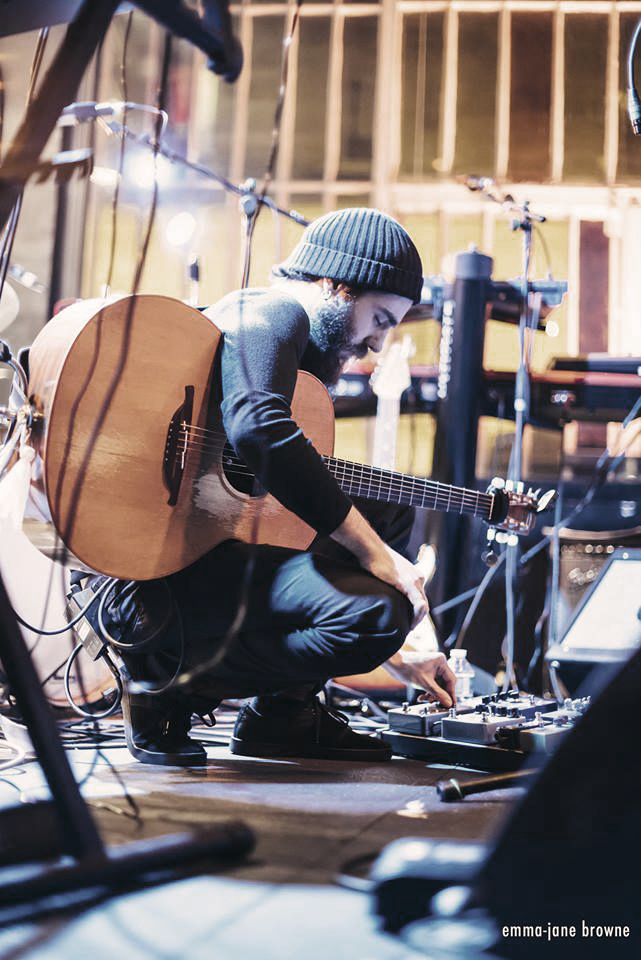
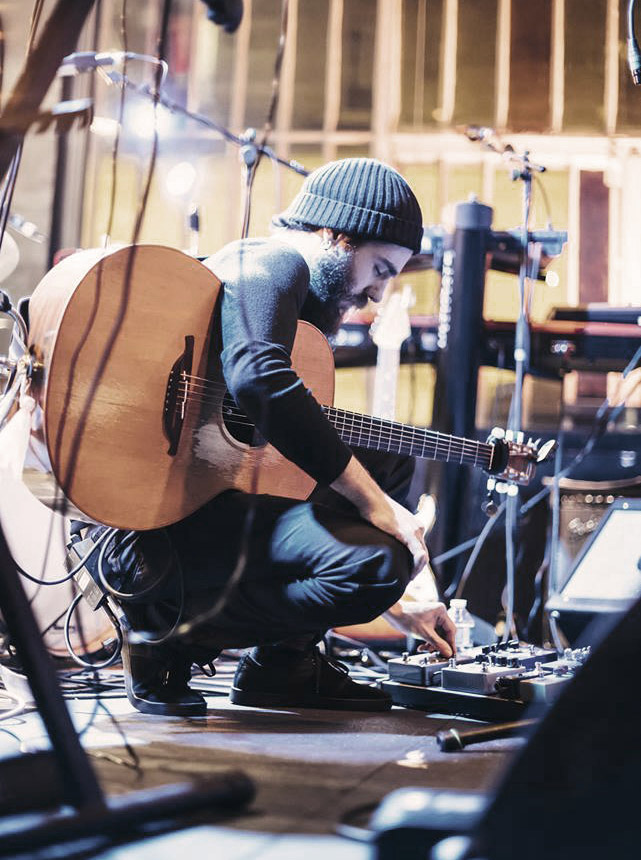
Update images with optimized and resized versions

diff --git a/css/main.css b/css/main.css
@@ -23,7 +23,7 @@ html {
 				  rgba(0, 0, 0, 0.2), 
 				  rgba(0, 0, 0, 0.2)
 				), 
-				url(../img/07.jpg) no-repeat center center scroll;
+				url(../img/indexbg.jpg) no-repeat center center scroll;
 	background-size: cover;
 }
 
